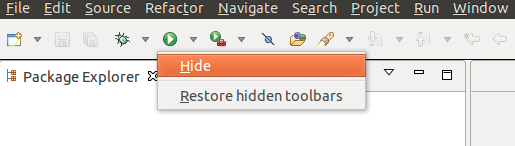
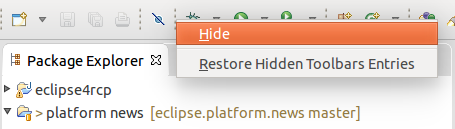
Updates

diff --git a/4.4/M7/index.html b/4.4/M7/index.html
@@ -45,6 +45,11 @@
       <p>
       The dark theme has been customized to work better on Window, Linux and Mac. 
       </p>
+      <img src="images/darklinux.png" alt=""/>
+      <p>
+      The platform also supports that projects can extend existing themes like the dark theme with settings for fitting 
+      syntax coloring. See <a href="https://bugs.eclipse.org/bugs/show_bug.cgi?id=433475">bug 433475</a> for details.
+      </p>
     </td>
   </tr>
   
@@ -87,24 +92,25 @@
    <tr id="os-ubuntu"> 
     <td class="title">Ubuntu menu integration </td>
     <td class="content">
+    	<p>
        In cooperation with Canonical the platform team worked on the support of Eclipse into Ubuntu 14.04. Ubuntu 14.04 supports the Eclipse 4 menu implementation which had issues
        in Ubuntu 13.04 and 13.10. For more details see <a href="https://bugs.launchpad.net/appmenu-gtk/+bug/613119">Eclipse menu does not render correctly in unity bar bug report</a> and <a href="https://bugs.launchpad.net/ubuntu/+source/unity-gtk-module/+bug/1208019">Eclipse menus doesn't show up in Saucy</a>.
+    	</p>
+    	
     </td>
   </tr>
     <tr id="closetoolbars"> 
-    <td class="title">Ability to close toolbars and toolcontrols via the context menu </td>
+    <td class="title">Ability to close toolbars entries via the context menu </td>
     <td class="content">
-       It is possible to hide individual toolbars via a context menu on the toolbar. You can restore hidden toolbars via the context menu on other toolbars or via the Reset Perspective command. The following screenshots
+       It is possible to hide individual toolbars entries via a context menu. You can restore hidden toolbar entries via the context menu or via the Reset Perspective command. The following screenshots
        demonstrates how to hide the "Run" toolbar.
         <p>
          <img src="images/hidetoolbar10.png" alt=""/>
          <img src="images/hidetoolbar20.png" alt=""/>
         </p>
         <p>
-	     Toolcontrols, e.g., the Quick Access box or the Perspective Switcher can also be hidden by the user. If the Quick Access box is hidden, the Ctrl+3 shortcut displays a dialog to
+	     This includes Quick Access box or the Perspective Switcher can also be hidden by the user. If the Quick Access box is hidden, the Ctrl+3 shortcut displays a dialog to
 	     select the command to execute.
-	     <img src="images/hidequickaccess.png" alt=""/>
-	     <img src="images/quickaccess_dialog.png" alt=""/>
 	    </p>
 	 
     </td>
